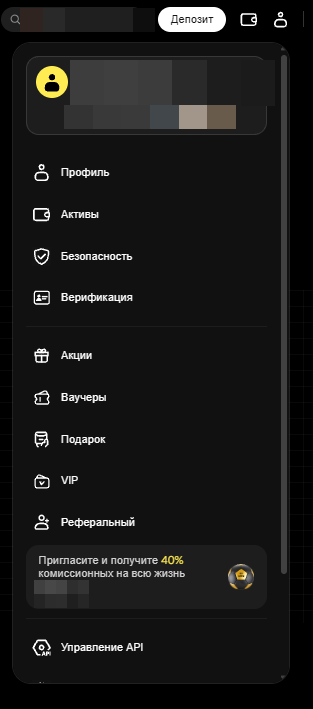
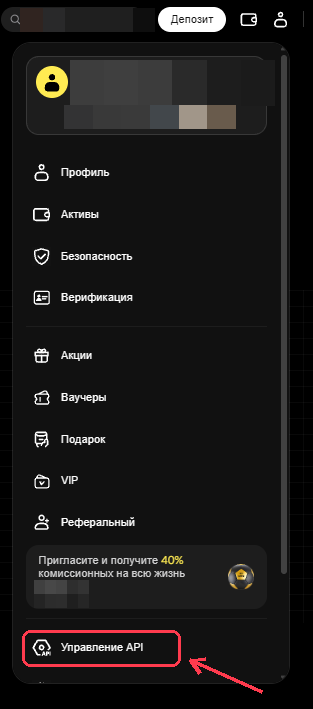
docs(faq): кнопки обведены со стрелкой, про вывод средств сказано верно
На каждом шаге то место, куда нажимать, обведено красным и показано стрелкой:
на снимке чужого интерфейса нужную кнопку ищут дольше, чем читают шаг.

Правки по существу. Торгует не платформа вашим счётом, а вы своим счётом через
терминал - ключ нужен ровно для этого. И права на вывод средств у ключа нет
вовсе: биржа при создании выдаёт только торговлю, спот и фьючерсы, - прежний
текст советовал не включать то, чего там и не бывает.

diff --git a/webapp/app/app/faq/page.tsx b/webapp/app/app/faq/page.tsx
@@ -87,7 +87,7 @@ const STEPS: Step[] = [
     body: [
       "Нажмите «Создать новый API». Имя ключа - любое; понятнее всего написать nmnh.trade, чтобы потом не гадать, чей он.",
       "Биржа попросит придумать кодовую фразу (passphrase). Её мы спросим вместе с ключом - запишите её сразу.",
-      "Права: торговля фьючерсами. Вывод средств не включайте - для торговли он не нужен, а ключ с правом на вывод опасен сам по себе.",
+      "Права ключа - только торговля, спот и фьючерсы; вывода средств среди них нет. Терминалу нужны фьючерсы: сделки идут по ним.",
     ],
     look: "Страница «Управление API» с кнопкой «Создать новый API».",
   },
@@ -114,9 +114,10 @@ export default function ApiFaq() {
       <header className="space-y-2">
         <h1 className="text-h2 text-text-primary">Как подключить счёт WEEX</h1>
         <p className="text-text-secondary">
-          Платформа торгует вашим счётом на бирже, а не своим. Чтобы она смогла
-          видеть баланс и ставить заявки, ей нужен ключ API - пропуск, который
-          биржа выдаёт вам, а вы отдаёте терминалу. Пять шагов, десять минут.
+          Торгуете вы своим счётом на бирже - через терминал. Ключ API нужен
+          ровно для этого: чтобы терминал показывал ваш баланс и ставил по нему
+          заявки, которые вы в нём рассчитали. Деньги при этом остаются на
+          бирже и никуда с неё не уходят. Пять шагов, десять минут.
         </p>
       </header>
 
@@ -128,9 +129,9 @@ export default function ApiFaq() {
         <div className="space-y-1 text-sm text-text-secondary">
           <p className="font-semibold text-text-primary">Что важно знать до начала</p>
           <p>
-            Ключ даёт право торговать вашим счётом - и только. Право на вывод
-            средств при создании не включайте: терминалу оно не нужно, а ключ с
-            ним в чужих руках означает потерю денег.
+            Права на вывод средств у ключа нет вовсе: при создании биржа выдаёт
+            только торговлю - спот и фьючерсы. Вывести ваши деньги по этому
+            ключу нельзя ни нам, ни кому-либо ещё.
           </p>
           <p>
             Секретный ключ и кодовую фразу не показывайте никому, включая
